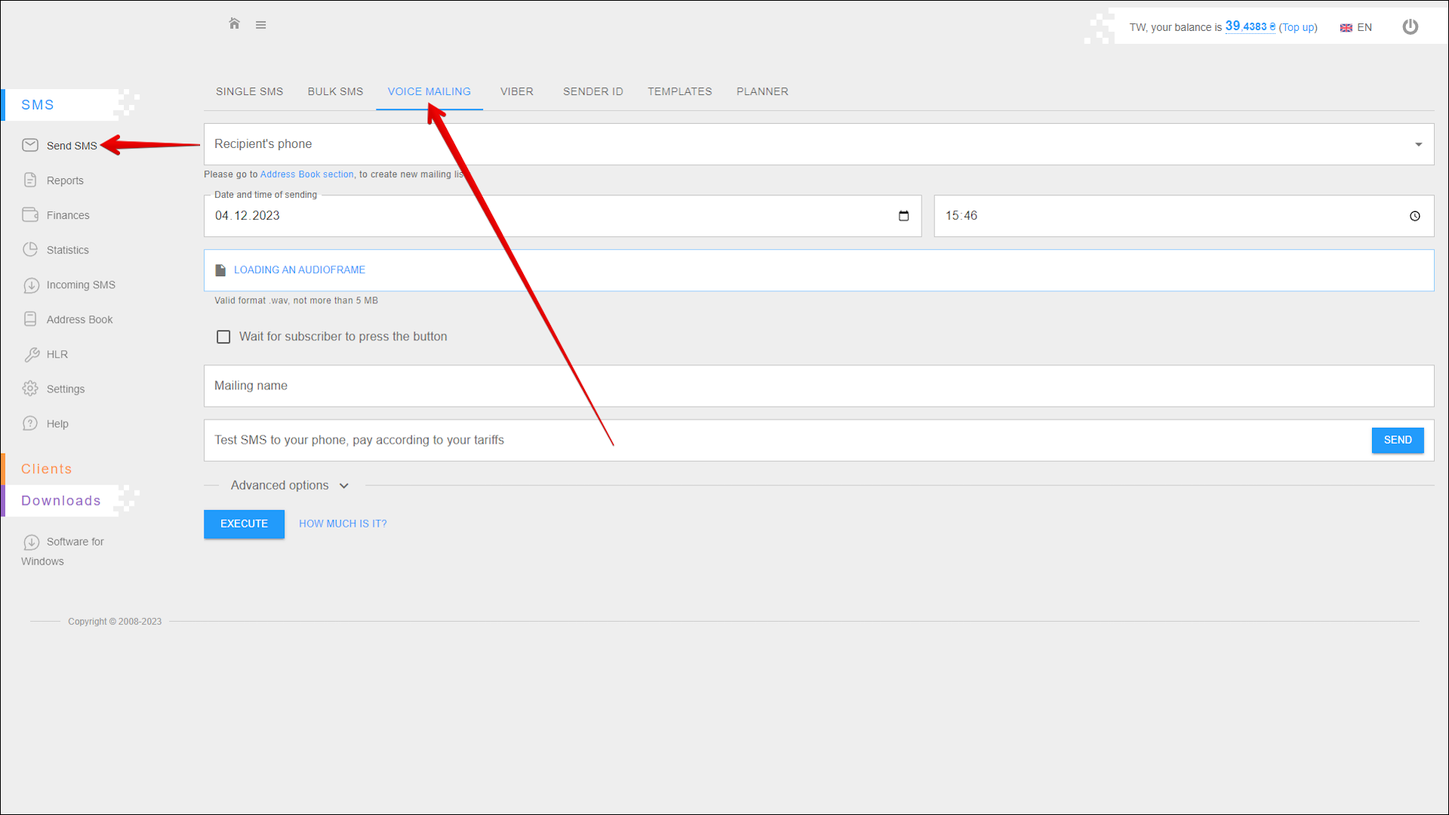
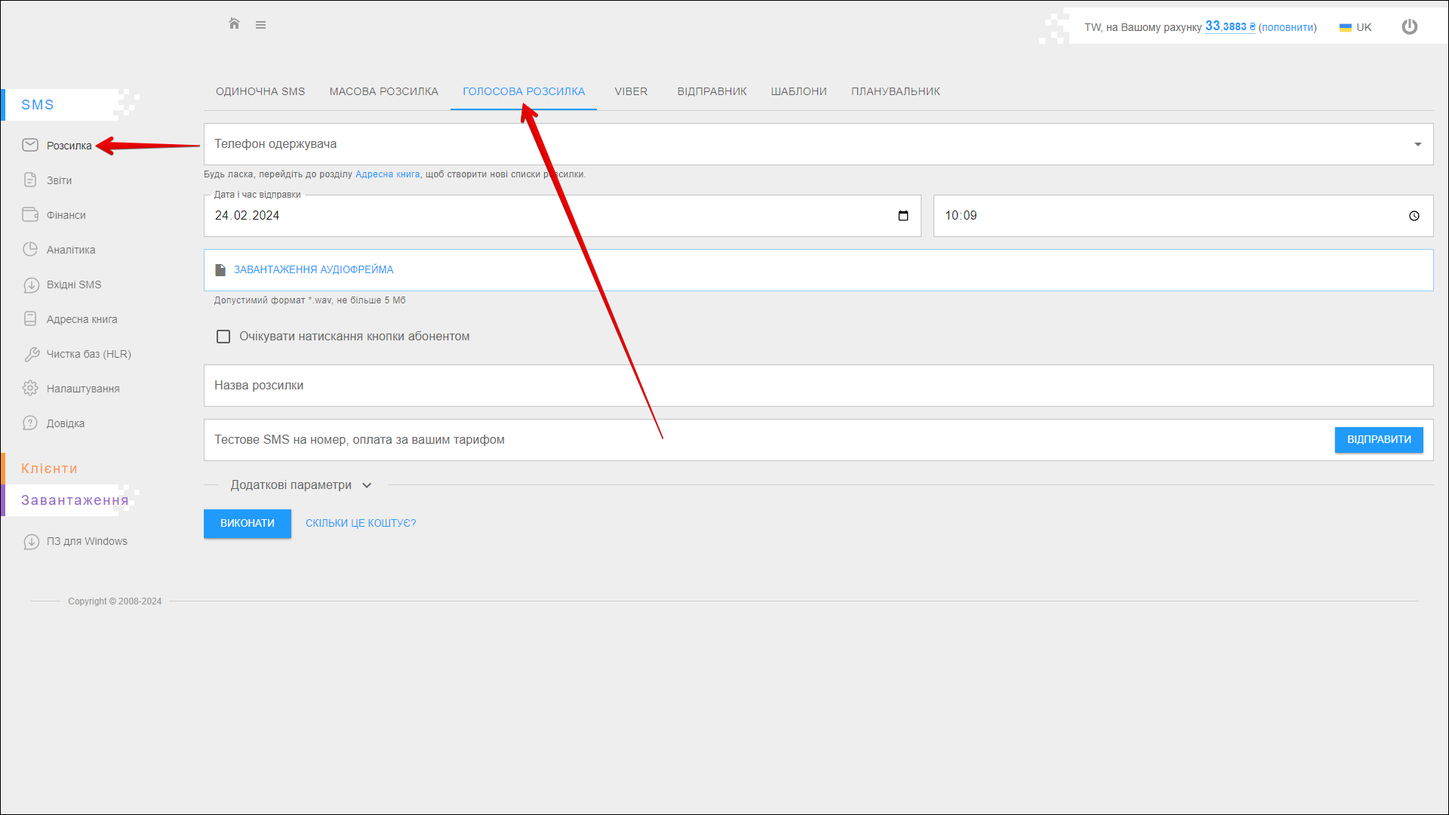
+ SMS-Розсилка-Голосова розсилка

diff --git a/i18n/uk/docusaurus-plugin-content-docs/current/instruction/sms/send_sms/bulk_sms.md b/i18n/uk/docusaurus-plugin-content-docs/current/instruction/sms/send_sms/bulk_sms.md
@@ -19,8 +19,8 @@ slug: /bulk_sms
 | 1 | Виберіть **Телефон одержувача** з раніше доданої адресної книги <br/> Щоб створити адресну книгу та додати до неї номери абонентів, перейдіть до вкладки [**ОДЕРЖУВАЧІ**](../address_book/recipients.md) в розділі **Адресна книга** |
 | 2 | Введіть **Ім'я відправника** або виберіть зі списку раніше доданих імен відправника. Натисніть на поле **Ім'я відправника** щоб відкрити цей список <br/> Ви також можете додати нове **Ім'я відправника** натиснув кнопку **ЗАРЕЄСТРУЙТЕ НОВОГО ВІДПРАВНИКА** праворуч поля **Ім'я відправника**. Ви будете перенаправлені на вкладку [**ВІДПРАВНИК**](sender_id.md) |
 | 3 | Виберіть **Дату**, в яку ви хочете відправити повідомлення. Ви можете ввести дату вручну або вибрати її в календарі, для цього натисніть на іконку **Календар** в правій частині поля |
-| 4 | Вкажіть **Час** для відправки повідомлення. Ви можете ввести час вручну або вибрати зі списку, натиснувши на іконку **Годинник** праворуч від поля (обов'язково вказуйте **київський** час) |
-| 5 | Вкажіть **Час закінчення** інтервалу для SMS розсилки. Ви можете ввести час вручну або вибрати зі списку, натиснувши на іконку **Годинник** праворуч від поля (обов'язково вказуйте **київський** час) <br/> Щоб увімкнути рівномірну розсилку, відзначте чекбокс **Розіслати рівномірно** |
+| 4 | Вкажіть **Час** для відправки повідомлення. Ви можете ввести час вручну або вибрати зі списку, натиснувши на іконку **Годинник** праворуч від поля (обов'язково вказуйте **Київський** час) |
+| 5 | Вкажіть **Час закінчення** інтервалу для SMS розсилки. Ви можете ввести час вручну або вибрати зі списку, натиснувши на іконку **Годинник** праворуч від поля (обов'язково вказуйте **Київський** час) <br/> Щоб увімкнути рівномірну розсилку, відзначте чекбокс **Розіслати рівномірно** |
 | 6 | Відзначте чекбокс **Розіслати рівномірно**, щоб увімкнути рівномірну розсилку SMS повідомлень. При рівномірній розсилці повідомлення будуть відправлятися рівномірно протягом обраного вами інтервалу часу |
 | 7 | Введіть **назву розсилки**, щоб у майбутньому ви могли легко орієнтуватися у звітах |
 | 8 | Введіть **текст повідомлення** (обмеження на кількість знаків у повідомленні: **70** для кирилиці та **160** для латиниці) <br/> Використовуйте кнопку **ВСТАВИТИ ПЕРЕМІННУ**, щоб додати змінну до тексту повідомлення <br/> Праворуч від поля введення тексту повідомлення відображається **кількість введених знаків** і **кількість повідомлень**, необхідних для відправлення введеного тексту <br/> Ви також можете переключити текст повідомлення з кирилиці на латиницю і навпаки за допомогою перемикача **ЛАТИНИЦЯ/КИРИЛИЦЯ** |
@@ -39,7 +39,7 @@ slug: /bulk_sms
 |  №  | Параметр | Опис |
 | :-: | -------- | ---- |
 | 1 | **Розсилка активна до (Дата)** | Дата, до якої розсилка буде активною. Після вказаної дати і часу SMS повідомлення не будуть відправлятися одержувачам |
-| 2 | **Розсилка активна до (Час)** | Час, до якого розсилка буде активною. Після вказаної дати та часу SMS повідомлення не будуть надсилатися отримувачам (обов'язково вказуйте **київський** час) |
+| 2 | **Розсилка активна до (Час)** | Час, до якого розсилка буде активною. Після вказаної дати та часу SMS повідомлення не будуть надсилатися отримувачам (обов'язково вказуйте **Київський** час) |
 | 3 | **Wap-Push посилання** | Wap-Push повідомлення - це спеціально сформоване повідомлення, що містить посилання на певний інтернет-ресурс <br/> Отримавши WAP-Push повідомлення, одержувач може перейти за цим посиланням на своєму мобільному телефоні <br/> Зверніть увагу, що одержувач зможе відкрити посилання Wap-Push лише за умови, що на його телефоні є налаштування WAP |
 | 4 | **Flash-SMS** | Flash-SMS - це SMS-повідомлення, яке одразу відображається на екрані телефону після отримання. Flash-SMS не зберігаються в пам'яті телефону або на SIM-карті <br/> Особливості: <ul><li>Лише одна частина SMS</li><li>Ім'я відправника не передається</li><li>Доставляється, якщо одержувач знаходиться на зв'язку, та не розмовляє по телефону</li></ul> |
 | 5 | **HLR** | HLR Lookup (Home Location Register) - сервіс для перевірки дійсності номера, а також для отримання детальної інформації про номер, включаючи визначення оператора мобільного зв'язку та інформацію про те, чи знаходиться номер у роумінгу <br/> Послуга абсолютно конфіденційна, одержувач не отримує жодних повідомлень, оскільки запит спрямовується на обладнання оператора зв'язку <br/> Переваги: <ul><li>Чистка клієнтської бази від неробочих номерів</li><li>Заощадження коштів перед відправленням розсилок</li><li>Визначення роумінгу</li><li>Можливість використання сервісу як через веб-інтерфейс, так і з інтеграцією за допомогою API</li></ul> |

diff --git a/i18n/uk/docusaurus-plugin-content-docs/current/instruction/sms/send_sms/voice_mailing.md b/i18n/uk/docusaurus-plugin-content-docs/current/instruction/sms/send_sms/voice_mailing.md
@@ -3,3 +3,49 @@ id: voice_mailing
 title: Голосова розсилка
 slug: /voice_mailing
 ---
+
+На цій вкладці ви можете створити розсилку голосових повідомлень. Одержувач отримає телефонний дзвінок, під час якого почує записане вами голосове повідомлення.
+
+Щоб відкрити цю вкладку, виберіть **SMS** → **Розсилка** у боковому меню та виберіть вкладку **ГОЛОСОВА РОЗСИЛКА**.
+
+![image1](/img/uk/sms_send_sms_voice_mailing/image1.png)
+
+## Створення голосової розсилки
+
+Щоб створити голосову розсилку, виконайте наведені нижче дії:
+
+|  №  | Дія |
+| :-: | --- |
+| 1 | Виберіть **Телефон одержувача** з раніше доданої адресної книги <br/> Щоб створити адресну книгу та додати до неї номери абонентів, перейдіть до вкладки [**ОДЕРЖУВАЧІ**](../address_book/recipients.md) в розділі **Адресна книга** |
+| 2 | Виберіть **Дату**, в яку ви хочете відправити повідомлення. Ви можете ввести дату вручну або вибрати її в календарі, для цього натисніть на іконку **Календар** в правій частині поля |
+| 3 | Вкажіть **Час** для відправки повідомлення. Ви можете ввести час вручну або вибрати зі списку, натиснувши на іконку **Годинник** праворуч від поля (обов'язково вказуйте **Київський** час) |
+| 4 | Виберіть і завантажте файл **Аудіофрейма**, який ви хочете озвучити одержувачу. Допустимий формат **.wav**, не більше **5 МБ**. |
+| 5 | Встановіть прапорець **Очікування натискання кнопки абонентом**, якщо вам потрібно очікувати поки одержувач не натисне кнопку на телефоні |
+| 6 | Введіть **назву розсилки**, щоб у майбутньому ви могли легко орієнтуватися у звітах |
+| 7 | Щоб перевірити, яким буде повідомлення для одержувачів, ви можете відправити собі тестове SMS. Для цього введіть свій **номер телефону** і натисніть **ВІДПРАВИТИ** |
+
+Натисніть **ВИКОНАТИ** для створення розсилки.
+
+![image2](/img/uk/sms_send_sms_voice_mailing/image2.png)
+
+## Додаткові параметри
+
+Ви також можете застосувати додаткові параметри при створенні розсилки. Натисніть **Додаткові параметри**, щоб розгорнути їх.
+
+![image3](/img/uk/sms_send_sms_voice_mailing/image3.png)
+
+|  №  | Параметр | Опис |
+| :-: | -------- | ---- |
+| 1 | **Розсилка активна до (Дата)** | Дата, до якої розсилка буде активною. Після вказаної дати і часу SMS повідомлення не будуть відправлятися одержувачам |
+| 2 | **Розсилка активна до (Час)** | Час, до якого розсилка буде активною. Після вказаної дати та часу SMS повідомлення не будуть надсилатися отримувачам (обов'язково вказуйте **Київський** час) |
+| 3 | **Відправити мені SMS по завершенню розсилки** | Після завершення розсилки вам буде надіслано SMS повідомлення |
+
+## Перевірка вартості
+
+Щоб перевірити вартість відправки повідомлень, натисніть **СКІЛЬКИ ЦЕ КОШТУЄ?** праворуч від кнопки **ВИКОНАТИ**.
+
+![image4](/img/uk/sms_send_sms_voice_mailing/image4.png)
+
+Відкриється спливаюче вікно **Відправлення SMS** з детальною інформацією про вартість відправлення повідомлення (повідомлень).
+
+![image5](/img/uk/sms_send_sms_voice_mailing/image5.png)

diff --git a/docs/instruction/sms/send_sms/voice_mailing.md b/docs/instruction/sms/send_sms/voice_mailing.md
@@ -16,9 +16,9 @@ To create a voice mailing, follow the steps below:
 
 |  №  | Action |
 | :-: | ------ |
-| 1 | Select **recipients' phone numbers** from previously added address books. <br/> To create an address book and add recipient numbers to it, go to [**RECIPIENTS**](/docs/instruction/sms/address_book/recipients.md) tab in the **Address Book** section |
+| 1 | Select **recipients' phone numbers** from previously added address books. <br/> To create an address book and add recipient numbers to it, go to [**RECIPIENTS**](../address_book/recipients.md) tab in the **Address Book** section |
 | 2 | Select the **date** on which you want to send the message. You can enter the date manually or select it in the calendar, to do this, click the **Calendar icon** on the right side of the field |
-| 3 | Specify the **time** to send the message. You can enter the time manually or select from the list by pressing the **Clock** icon on the right side of the field. Be sure to specify **Kyiv** time |
+| 3 | Specify the **time** to send the message. You can enter the time manually or select from the list by pressing the **Clock** icon on the right side of the field (be sure to specify **Kyiv** time) |
 | 4 | Select and upload the **audioframe** file to be voiced to the recipient. Valid format **.wav**, not more than **5 MB** |
 | 5 | Check the **Wait for subscriber to press the button** checkbox if you need to expect the recipient to press a button on the phone |
 | 6 | Enter the **mailing name** to help you easily navigate through the reports in the future |
@@ -28,22 +28,24 @@ Press **EXECUTE** to create a mailing.
 
 ![image2](/img/en/sms_send_sms_voice_mailing/image2.png)
 
-To check the cost of sending messages, click **HOW MUCH IS IT?** to the right of the **EXECUTE** button.
-
-![image3](/img/en/sms_send_sms_voice_mailing/image3.png)
-
-The **SMS Sending** pop-up window opens with detailed information about the cost of sending the message(s).
-
-![image4](/img/en/sms_send_sms_voice_mailing/image4.png)
-
 ## Advanced options
 
 You can also apply additional options when you create a mailing. Click **Advanced options** to expand them.
 
-![image5](/img/en/sms_send_sms_voice_mailing/image5.png)
+![image3](/img/en/sms_send_sms_voice_mailing/image3.png)
 
 |  №  | Option | Description |
 | :-: | ------ | ----------- |
 | 1 | **Mailing is valid until (Date)** | The date until which the mailing will be active. Messages will not be sent to recipients after the specified date and time |
-| 2 | **Mailing is valid until (Time)** | The time until which the mailing will be active. Messages will not be sent to recipients after the specified date and time. Be sure to specify **Kyiv** time |
+| 2 | **Mailing is valid until (Time)** | The time until which the mailing will be active. Messages will not be sent to recipients after the specified date and time (be sure to specify **Kyiv** time) |
 | 3 | **Send me SMS upon completion of mailing** | Upon completion of the mailing you will be sent an SMS notification |
+
+## Check the cost
+
+To check the cost of sending messages, click **HOW MUCH IS IT?** to the right of the **EXECUTE** button.
+
+![image4](/img/en/sms_send_sms_voice_mailing/image4.png)
+
+The **SMS Sending** pop-up window opens with detailed information about the cost of sending the message(s).
+
+![image5](/img/en/sms_send_sms_voice_mailing/image5.png)

diff --git a/i18n/uk/docusaurus-plugin-content-docs/current/instruction/sms/send_sms/single_sms.md b/i18n/uk/docusaurus-plugin-content-docs/current/instruction/sms/send_sms/single_sms.md
@@ -19,7 +19,7 @@ slug: /single_sms
 | 1 | Введіть **Телефон одержувача** <br/> Ви також можете ввести декілька номерів, розділених комами (напр. 0501234567, 39371234567) |
 | 2 | Введіть **Ім'я відправника** або виберіть зі списку раніше доданих імен відправника. Натисніть на поле **Ім'я відправника** щоб відкрити цей список <br/> Ви також можете додати нове **Ім'я відправника** натиснув кнопку **ЗАРЕЄСТРУЙТЕ НОВОГО ВІДПРАВНИКА** праворуч поля **Ім'я відправника**. Ви будете перенаправлені на вкладку [**ВІДПРАВНИК**](sender_id.md) |
 | 3 | Виберіть **Дату**, в яку ви хочете відправити повідомлення. Ви можете ввести дату вручну або вибрати її в календарі, для цього натисніть на іконку **Календар** в правій частині поля |
-| 4 | Вкажіть **Час** для відправки повідомлення. Ви можете ввести час вручну або вибрати зі списку, натиснувши на іконку **Годинник** праворуч від поля (обов'язково вказуйте **київський** час) |
+| 4 | Вкажіть **Час** для відправки повідомлення. Ви можете ввести час вручну або вибрати зі списку, натиснувши на іконку **Годинник** праворуч від поля (обов'язково вказуйте **Київський** час) |
 | 5 | Введіть **текст повідомлення** (обмеження на кількість знаків у повідомленні: **70** для кирилиці та **160** для латиниці) <br/> Використовуйте кнопку **ВСТАВИТИ ПЕРЕМІННУ**, щоб додати змінну до тексту повідомлення <br/> Праворуч від поля введення тексту повідомлення відображається **кількість введених знаків** і **кількість повідомлень**, необхідних для відправлення введеного тексту <br/> Ви також можете переключити текст повідомлення з кирилиці на латиницю і навпаки за допомогою перемикача **ЛАТИНИЦЯ/КИРИЛИЦЯ** |
 
 Натисніть **ВИКОНАТИ**, щоб відправити повідомлення.
